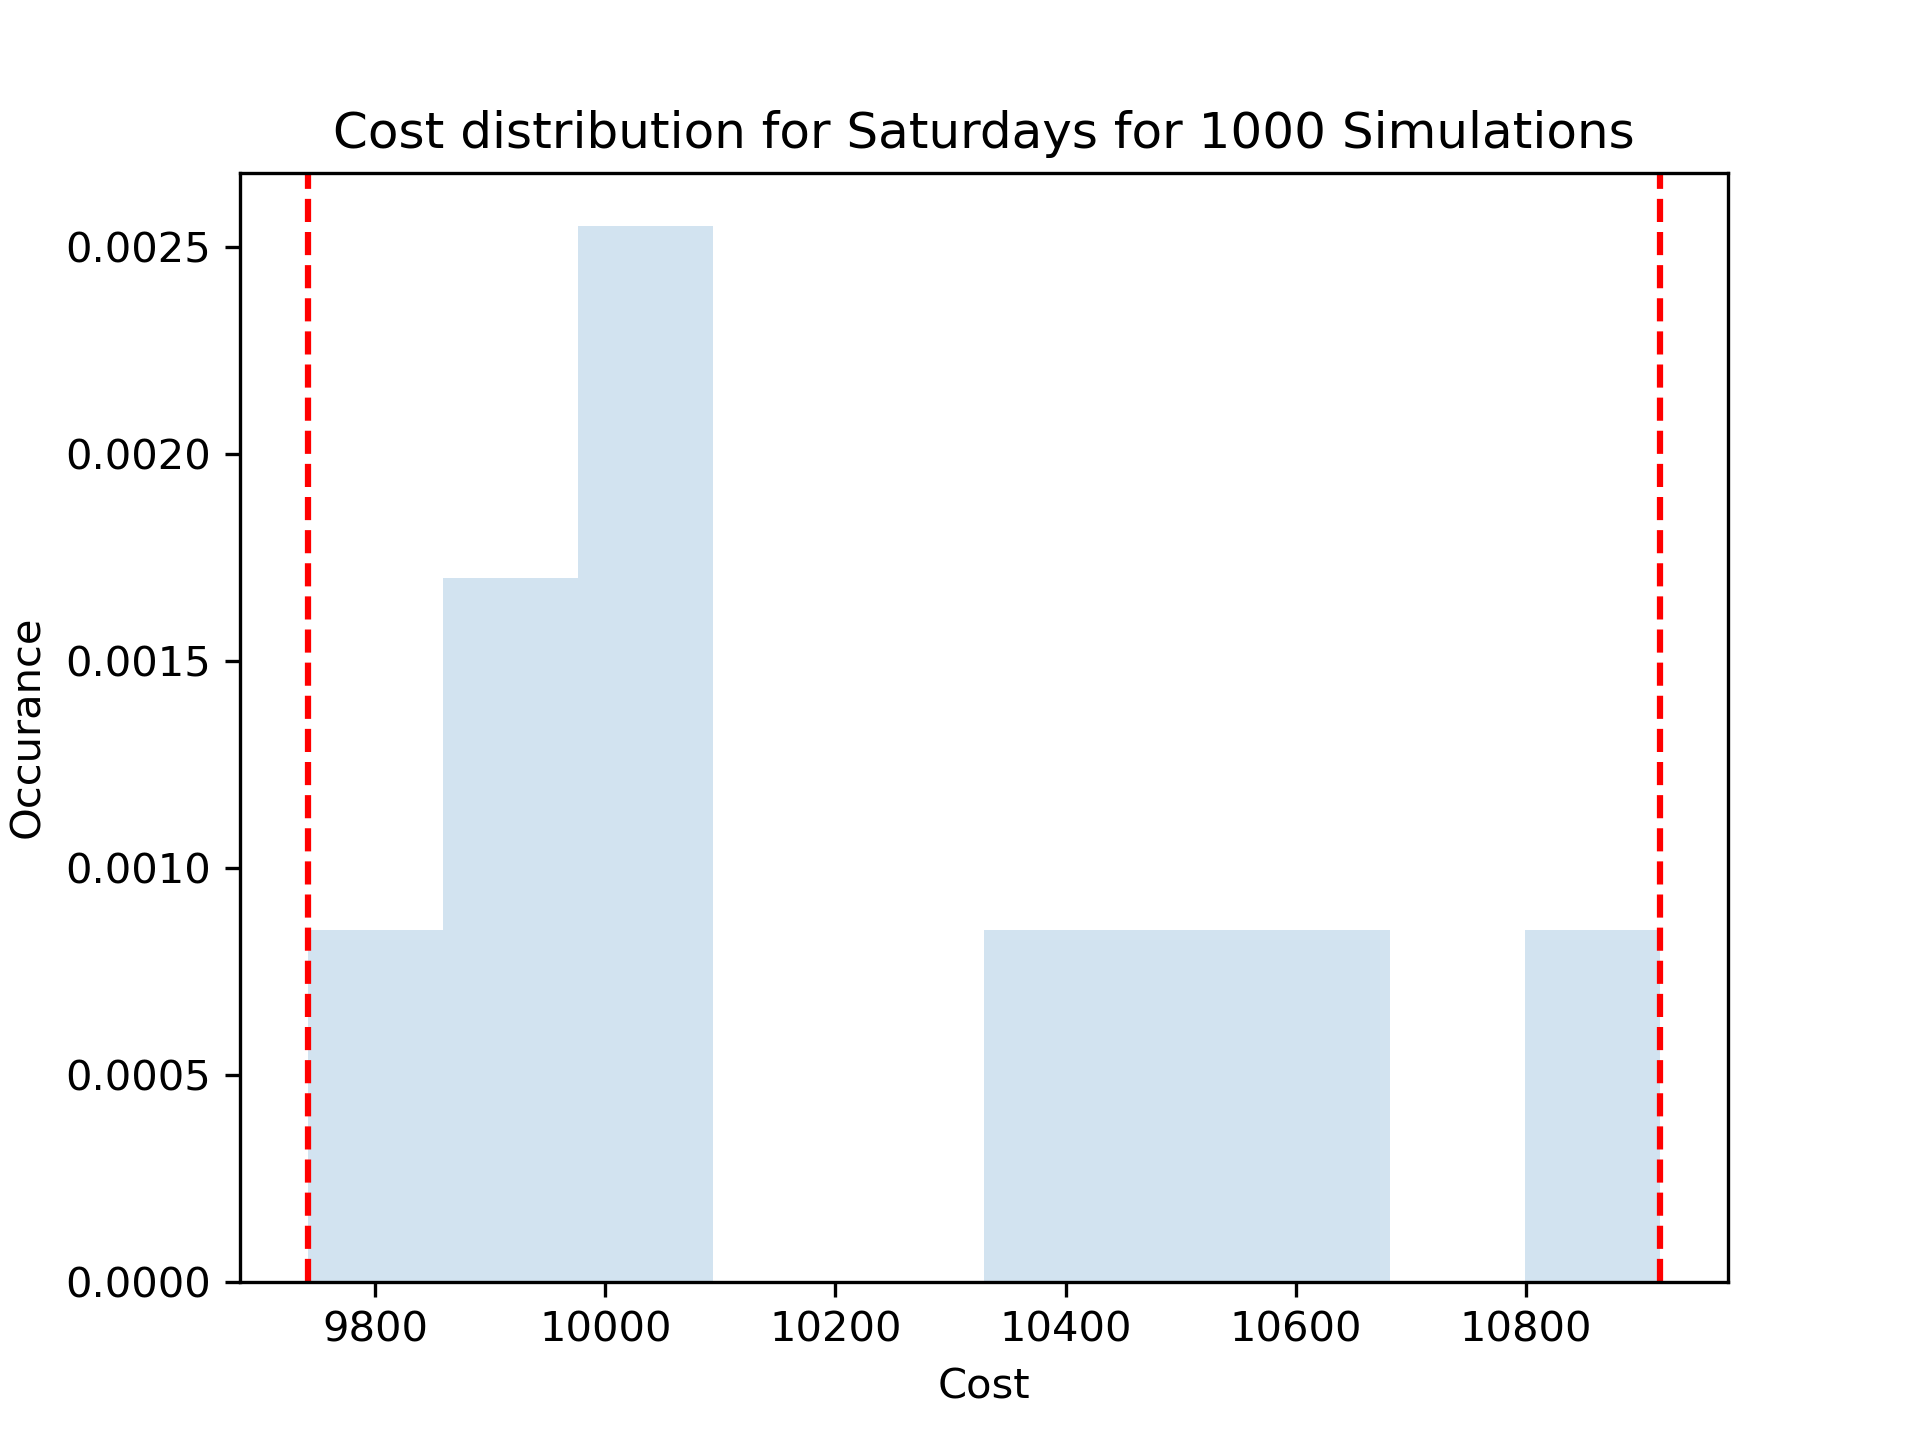
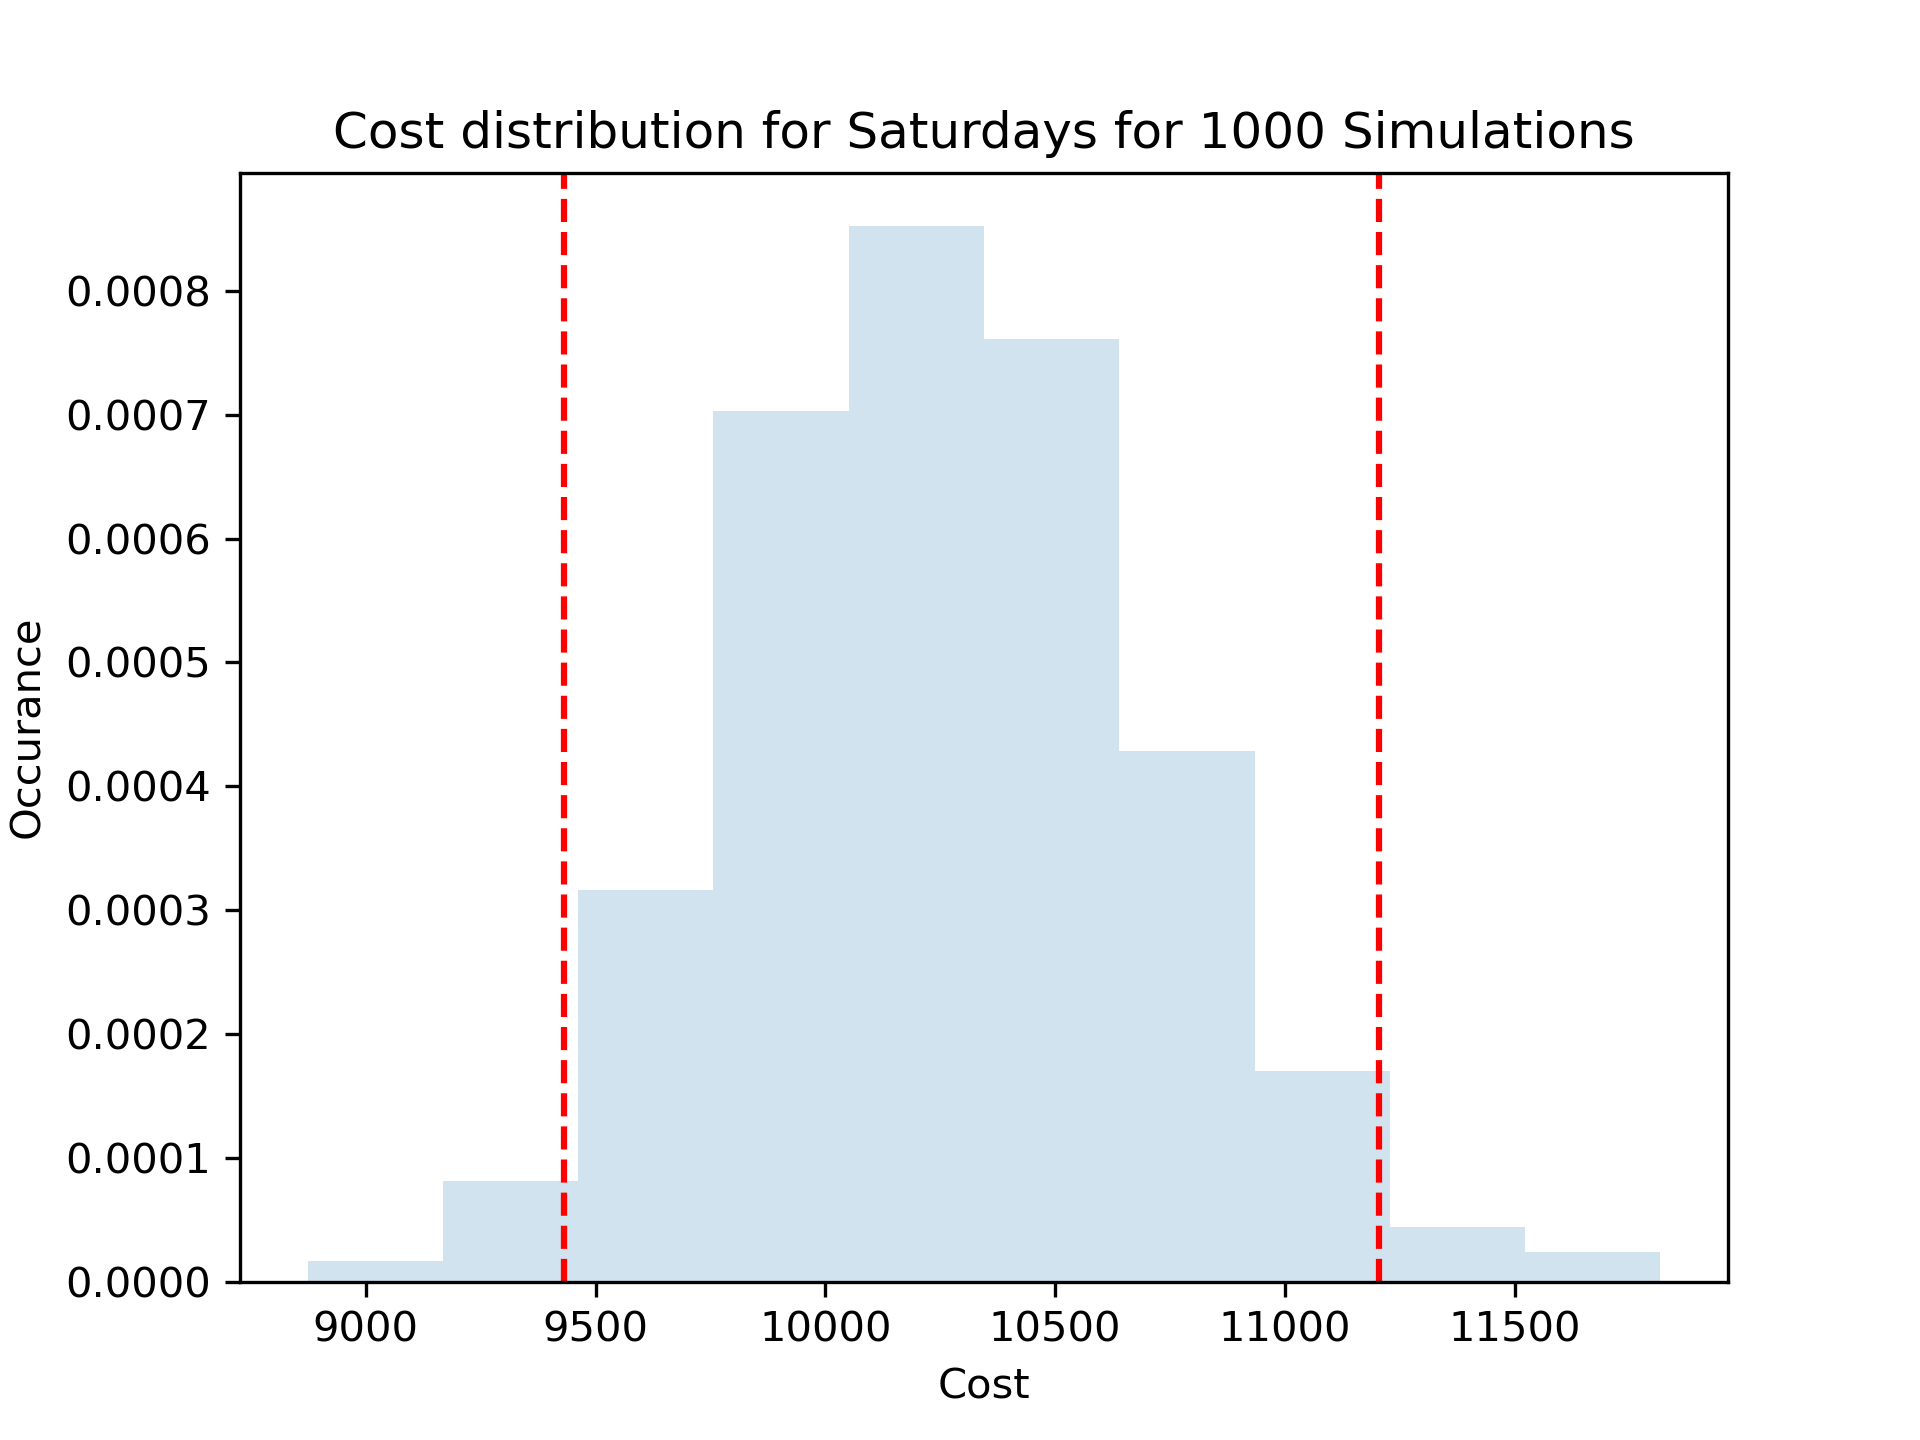
All parts apart from closure of stores finished

diff --git a/main.py b/main.py
@@ -9,6 +9,7 @@ from scipy import stats
 import matplotlib.pyplot as plt
 from  random import randint
 from multiprocessing import Pool
+from time import time
 ORSkey = '5b3ce3597851110001cf6248324acec39fa94080ac19d056286d0ccb'
 
 
@@ -323,20 +324,20 @@ def bootstrap(mean, sd):
     NOTE: Assuming normal distribution of demands to generate bootstrap
     """
     # generate normal distribution from the mean and standard deviation for a given day, simulates population distribution
-    randMeans = np.random.normal(loc = mean, scale = sd, size = 1000)
+    randDemands = np.random.normal(loc = mean, scale = sd, size = 100)
     # bootstrap 1000 samples 
-    sampMean = []
+    demandMeans = []
     for i in range(100):
         # takes sample of size 50 from population
-        sampleTaken = np.random.choice(randMeans, replace = True, size = 50)
+        sampleTaken = np.random.choice(randDemands, replace = True, size = 50)
         # calculates mean of sample
-        sampAvg = np.mean(sampleTaken)
-        sampMean.append(sampAvg)
+        averageDemand = np.mean(sampleTaken)
+        demandMeans.append(averageDemand)
     # estimate mean from list of sampleMeans after the boostrap
-    m = np.mean(sampMean)
-    return m
+    demand = np.mean(demandMeans)
+    return demand
 
-def generateDemandsSat(saturday_stores):
+def generateDemandsSat(saturday_stores, demand_data):
     """
     This function generates a set of demands for saturday stores.
     ---------------------------------------
@@ -348,7 +349,7 @@ def generateDemandsSat(saturday_stores):
         sat_stores: pandas dataframe
                     dataframe containing the stores and their generated demands
     """
-    demand_data = pd.read_csv("assignment_resources/DemandMeanSD.csv")
+    
     sat_demands = demand_data[demand_data["WeekendMu"] != 0]
     demands = []
     for i in range(len(saturday_stores)):
@@ -357,7 +358,7 @@ def generateDemandsSat(saturday_stores):
         demands.append(round(bootstrap(mu,sigma)))
     sat_stores = pd.DataFrame({'Store':saturday_stores, 'Demand':demands})
     return sat_stores
-def generateDemandsWeek(weekday_stores):
+def generateDemandsWeek(weekday_stores, demand_data):
     """
     This function generates a set of demands for weekday stores.
     ---------------------------------------
@@ -369,8 +370,7 @@ def generateDemandsWeek(weekday_stores):
         weekday_stores: pandas dataframe
                     dataframe containing the stores and their generated demands
     """
-    # generate demand data frames
-    demand_data = pd.read_csv("assignment_resources/DemandMeanSD.csv")
+
 
     demands = []
     for i in range(65):
@@ -552,17 +552,16 @@ def generateExtraRoutes(extraStores_df):
 
     return cost, optimalRoutes
 
-def simulateWeek(route_df, stores, n):
+def simulateWeek(route_df, stores,demand_data, n):
     prior_routes = route_df["Route"]
     optimal_costs =np.zeros(n)
     extraStores_list = []
     for i in range(n):
 
-        # Generate emand for stores on the pert-beta distrubution
-        week_demands = generateDemandsWeek(stores)
+        # Generate demands fo all stores
+        week_demands = generateDemandsWeek(stores,demand_data)
         
-        # print(i)
-        #Check validity of  routes with the new demands
+        """Check validity of routes with the new demands"""
         extra_stores = []
         extra_storesDemand = []
         routes = []
@@ -594,13 +593,14 @@ def simulateWeek(route_df, stores, n):
         optimal_costs[i]= (sum(costs) + extraStores_cost)
         
     return optimal_costs, extraStores_list
-def simulateSat(route_df, stores, n):
+def simulateSat(route_df, stores, demand_data, n):
+    
     prior_routes = route_df["Route"]
     extraStores_list = []
     optimal_costs =np.zeros(n)
     for i in range(n):
         # Generate demand for stores on the pert-beta distrubution
-        sat_demands = generateDemandsSat( stores) 
+        sat_demands = generateDemandsSat(stores, demand_data) 
         #Check validity of  routes with the new demands
         extra_stores = []
         extra_storesDemand = []
@@ -638,9 +638,7 @@ def simulateSat(route_df, stores, n):
 
 if __name__ == "__main__":
 
-    # read in individual data frames containing feasible route info.
-    sat_df = readInSatDF()
-    week_df = readInWeekDF()
+
 
     # Read in store data
     stores_df = pd.read_csv('dataframe_csv/stores_df.csv')
@@ -650,31 +648,39 @@ if __name__ == "__main__":
     saturday_stores = (stores_df.loc[stores_df["Saturday"] != 0, ["Store"]])["Store"]
    
     """  Unocmment saturday and sunday to obtain optimal cost and the optimal route set."""
+    # # read in individual data frames containing feasible route info.
+    # sat_df = readInSatDF()
+    # week_df = readInWeekDF()
     # solve(sat_df, saturday_stores, "Saturday")
     # solve(week_df, weekday_stores, "Weekdays")
 
     # Obtain optimal routes data frames for each day and the objective value.
     satRoutes, satCost = getSatOptimal()
     weekRoutes, weekCost, = getWeekOptimal()
+    
     """ Uncomment to run mapping for optimal routes"""
     # mapByRegion(satRoutes, stores_df, "Saturday")
     # mapByRegion(weekRoutes, stores_df, "Weekday")
     
     """ Simulation"""
+    demand_data = pd.read_csv("assignment_resources/DemandMeanSD.csv")
     p = Pool(4)     #Simulate using parellel processing
-
-    n =20
-    lwr = int(0.025 * n)
-    uper = int(0.975 * n)
-    print("Weekday simulation...")
-    inputs = [(weekRoutes, weekday_stores, 10)]*2
+    n = 1000        # number of simulations (>10)
+    lwr = int(0.025 * n) #entral interval lower bound
+    uper = int(0.975 * n) #central interval upper bound
+    print("Simulating Weekdays (this takes about 2.5 mins)...")
+    t0 = time()
+    inputs = [(weekRoutes, weekday_stores, demand_data, int(n/8))]*8
     weekData = p.starmap(simulateWeek, inputs)
+    t1 = time()
     weekSimulatedCosts = []
     weekExtraStores = []
     for tup in weekData:
         weekSimulatedCosts.extend([*tup[0]])
         weekExtraStores.extend([*tup[1]])
     weekSimulatedCosts.sort()
+    print(weekExtraStores)
+
     print("")
     print("=========================================================")
     print("WEEKDAY RESULTS:")
@@ -688,12 +694,15 @@ if __name__ == "__main__":
     for store in weekExtraStores:
         print("%s:"%store,+(45- len(store))*" " + "%d"% weekExtraStores[store])
     print("=========================================================")
+    print("Simulation run time:                         %.2fs"%(t1-t0))
     print("")
 
 
-    print("Saturday simulation...")
-    inputs = [(satRoutes,saturday_stores, 10)]*2
+    print("Simulating Saturdays (this takes about 2 mins)...")
+    inputs = [(satRoutes,saturday_stores,demand_data,10)]*int(n/10)
+    t0 = time()
     weekData = p.starmap(simulateSat, inputs)
+    t1 = time()
     satSimulatedCosts = []
     satExtraStores = []
     for tup in weekData:
@@ -719,31 +728,29 @@ if __name__ == "__main__":
         for store in satExtraStores:
             print("%s:"%store,+(35- len(store))*" " + "%d"% satExtraStores[store])
         print("=========================================================")
+    print("Simulation run time:                         %.2fs"%(t1-t0))
 
 
 
-    # plt.hist(week_costs, density=True, histtype='bar', alpha=0.2)
-    # plt.title("Cost distribution for Weekdays for 1000 Simulations")
-    # plt.axvline(week_costs[lwr], linestyle='dashed', color='red')
-    # plt.axvline( week_costs[uper], linestyle='dashed', color='red')
+    plt.hist(weekSimulatedCosts, density=True, histtype='bar', alpha=0.2)
+    plt.title("Cost distribution for Weekdays for 1000 Simulations")
+    plt.axvline(weekSimulatedCosts[lwr], linestyle='dashed', color='red')
+    plt.axvline( weekSimulatedCosts[uper], linestyle='dashed', color='red')
     
 
-    # plt.ylabel("Occurance")
-    # plt.xlabel("Cost")
-    # plt.savefig('weekday_sim_distribution ',dpi=300)
-    # plt.show()
-    # plt.hist(sat_costs, density=True, histtype='bar', alpha=0.2)
-    # plt.axvline(x = sat_costs[lwr], linestyle='dashed', color='red')
-    # plt.axvline(x = sat_costs[uper], linestyle='dashed', color='red')
+    plt.ylabel("Occurance")
+    plt.xlabel("Cost")
+    plt.savefig('weekday_sim_distribution ',dpi=300)
+    plt.show()
+    plt.hist(satSimulatedCosts, density=True, histtype='bar', alpha=0.2)
+    plt.axvline(x = satSimulatedCosts[lwr], linestyle='dashed', color='red')
+    plt.axvline(x = satSimulatedCosts[uper], linestyle='dashed', color='red')
 
-    # plt.title("Cost distribution for Saturdays for 1000 Simulations")
-    # plt.ylabel("Occurance")
-    # plt.xlabel("Cost")
-    # plt.savefig('saturday_sim_distribution ',dpi=300)
-    # plt.show()
-
-    # satRoutes.to_csv("sat_soln.csv")
-    # weekRoutes.to_csv("weekday_soln.csv")
+    plt.title("Cost distribution for Saturdays for 1000 Simulations")
+    plt.ylabel("Occurance")
+    plt.xlabel("Cost")
+    plt.savefig('saturday_sim_distribution ',dpi=300)
+    plt.show()
 
 
     
